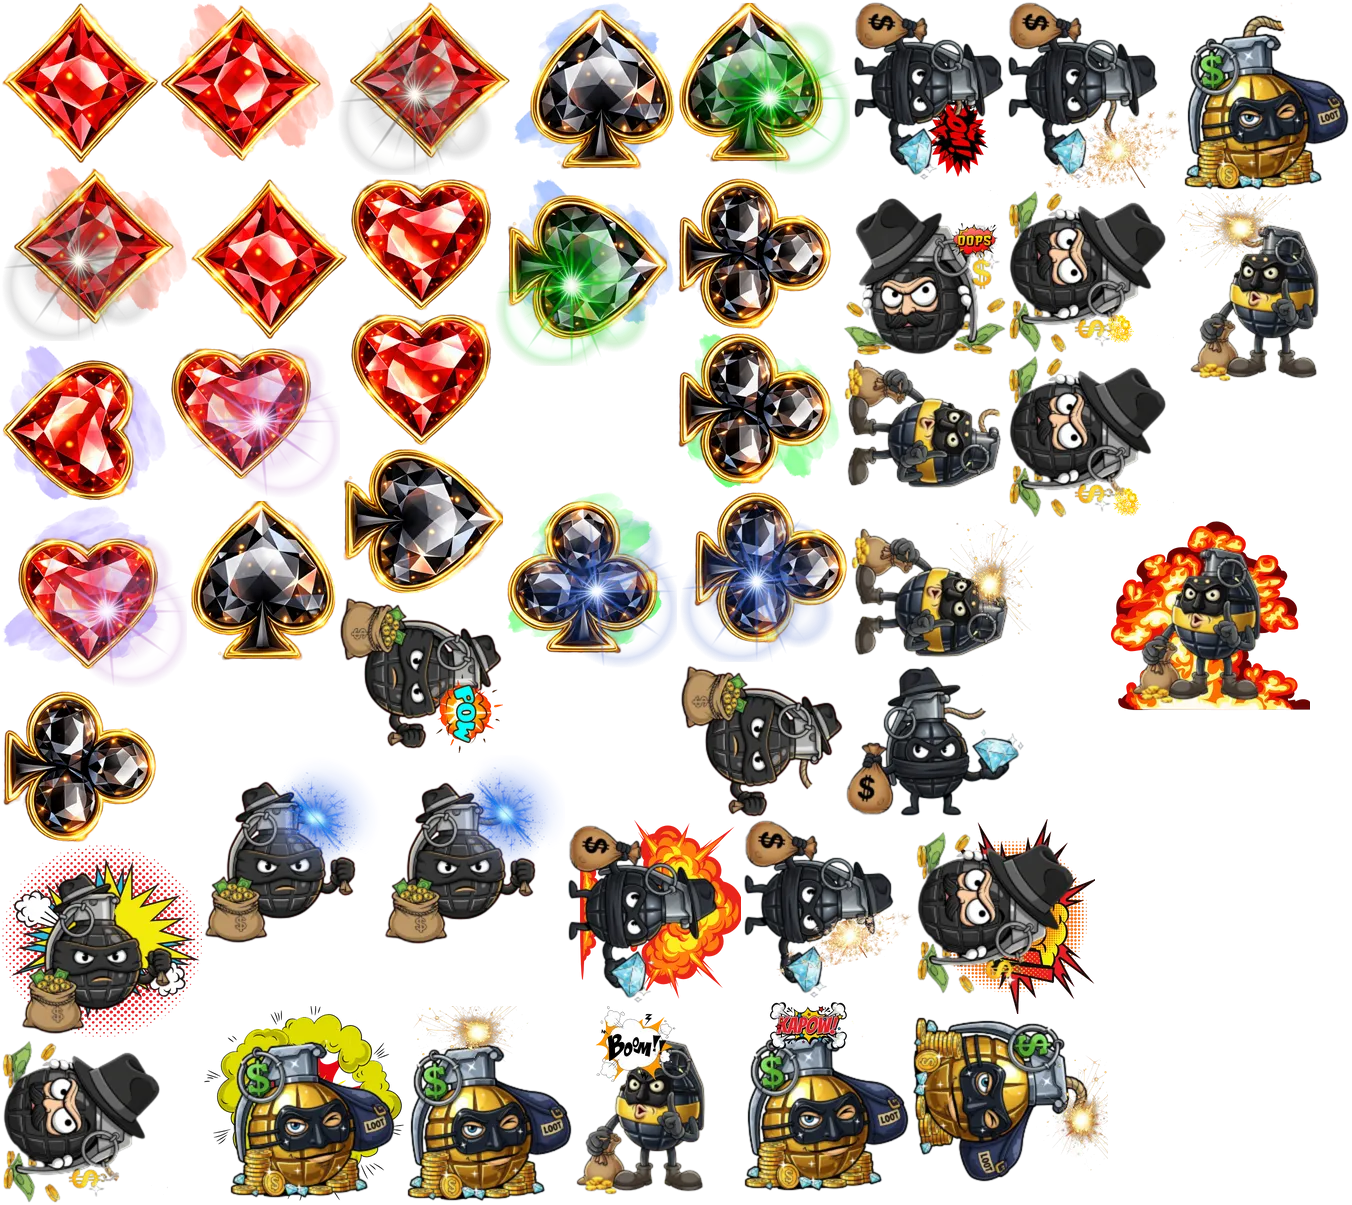
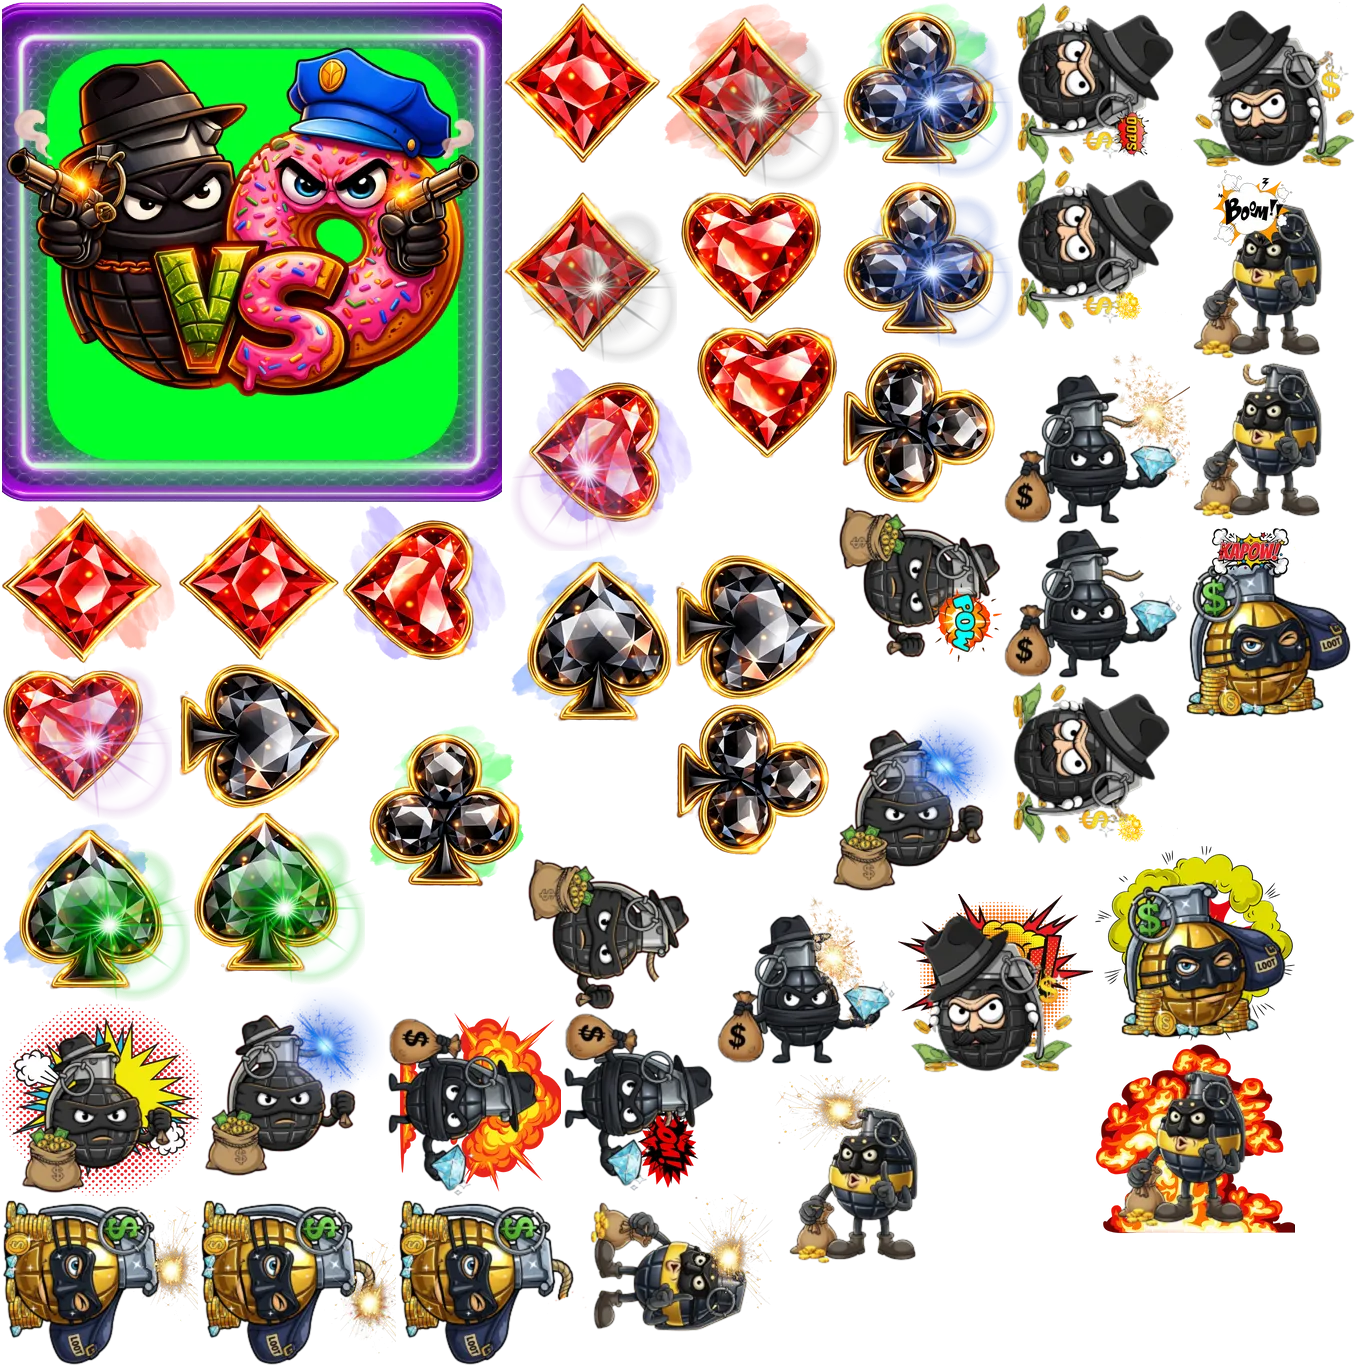
fx

diff --git a/apps/scatter/src/game/constants.ts b/apps/scatter/src/game/constants.ts
@@ -94,7 +94,7 @@ export const HIGH_SYMBOLS = ['H1', 'H2', 'H3', 'H4', 'H5'];
 
 export const INITIAL_SYMBOL_STATE: SymbolState = 'static';
 
-const M_SIZE = 0.3;
+const M_SIZE = 0.5;
 const HIGH_SYMBOL_SIZE = 0.9;
 const LOW_SYMBOL_SIZE = 0.9;
 const SPECIAL_SYMBOL_SIZE = 0.9;
@@ -157,34 +157,34 @@ const wStatic = { type: 'sprite', assetKey: 'w.png', sizeRatios: { width: 1.12, 
 
 const m2Static = {
 	type: 'sprite',
-	assetKey: 'm',
-	sizeRatios: { width: 0.88, height: 0.88 },
+	assetKey: 'm.png',
+	sizeRatios: { width: 1, height: 1 },
 };
 const m4Static = {
 	type: 'sprite',
-	assetKey: 'm',
-	sizeRatios: { width: 0.88, height: 0.88 },
+	assetKey: 'm.png',
+	sizeRatios: { width: 1, height: 1 },
 };
-const m5Static = { type: 'sprite', assetKey: 'm', sizeRatios: { width: 1, height: 1 } };
-const m7Static = { type: 'sprite', assetKey: 'm', sizeRatios: { width: 1, height: 1 } };
-const m10Static = { type: 'sprite', assetKey: 'm', sizeRatios: { width: 1, height: 1 } };
+const m5Static = { type: 'sprite', assetKey: 'm.png', sizeRatios: { width: 1, height: 1 } };
+const m7Static = { type: 'sprite', assetKey: 'm.png', sizeRatios: { width: 1, height: 1 } };
+const m10Static = { type: 'sprite', assetKey: 'm.png', sizeRatios: { width: 1, height: 1 } };
 
 const wSizeRatios = { width: 1.5 * 0.9, height: SPECIAL_SYMBOL_SIZE * 1.15 };
 const sSizeRatios = { width: 1.2, height: SPECIAL_SYMBOL_SIZE * 1.4 };
 
 const backgroundLowStatic = {
 	type: 'sprite',
-	assetKey: 'm',
+	assetKey: 'm.png',
 	sizeRatios: { width: M_SIZE, height: M_SIZE },
 };
 const backgroundMidStatic = {
 	type: 'sprite',
-	assetKey: 'm',
+	assetKey: 'm.png',
 	sizeRatios: { width: M_SIZE, height: M_SIZE },
 };
 const backgroundHighStatic = {
 	type: 'sprite',
-	assetKey: 'm',
+	assetKey: 'm.png',
 	sizeRatios: { width: M_SIZE, height: M_SIZE },
 };
 

diff --git a/apps/scatter/src/game/assets.ts b/apps/scatter/src/game/assets.ts
@@ -137,16 +137,13 @@ export default {
 	},
 	m: {
 		type: 'spriteWithTexture',
-		src: 'spritesheet',
-		frame: 'm.webp.png',
+		src: 'symbols',
+		frame: 'M',
 	},
 	M: {
-		type: 'spine',
-		src: {
-			atlas: new URL('../../assets/spines/symbols2/symbols2.atlas', import.meta.url).href,
-			skeleton: new URL('../../assets/spines/symbols2/M.json', import.meta.url).href,
-			scale: 2,
-		},
+		type: 'spriteWithTexture',
+		src: 'symbols',
+		frame: 'M',
 	},
 	S: {
 		type: 'spine',

diff --git a/apps/scatter/static/assets/spines/symbols/index.ts b/apps/scatter/static/assets/spines/symbols/index.ts
@@ -11,6 +11,7 @@ import L1 from './symbols.webp.json';
 import L2 from './symbols.webp.json';
 import L3 from './symbols.webp.json';
 import L4 from './symbols.webp.json';
+import M from './symbols.webp.json';
 
 export default createAsset({
 	img,
@@ -25,5 +26,6 @@ export default createAsset({
 		L2,
 		L3,
 		L4,
+		M,
 	},
 });

diff --git a/apps/scatter/src/components/MultiplierBoard.svelte b/apps/scatter/src/components/MultiplierBoard.svelte
@@ -139,7 +139,7 @@
 					<!-- Backdrop glow effect - using a simple circle -->
 					<Container x={bomb.x} y={bomb.y}>
 						<Sprite 
-							key="play"
+							key="glow"
 							anchor={0.5}
 							scale={0.3 * bomb.backdropScale}
 							x={0}
